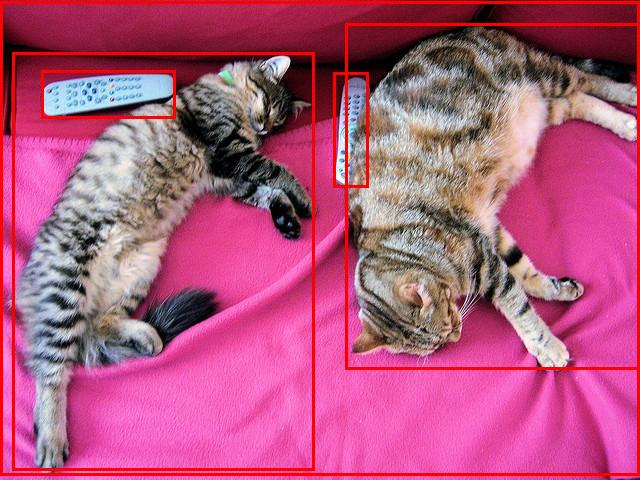
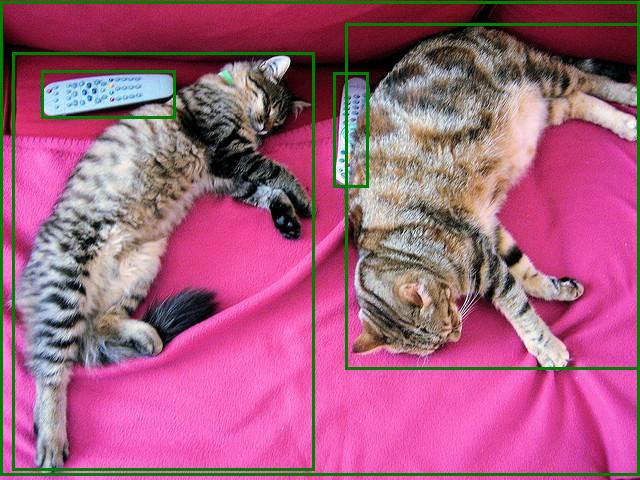
object detection and save results in file

Changed region(s): [[0.0, 0.0, 1.0, 1.0]]

diff --git a/simple_classify.py b/simple_classify.py
@@ -40,7 +40,7 @@ for score, label, box in zip(results["scores"], results["labels"], results["boxe
     )
     top_left_corner = (box[0], box[1])  # x, y of the top left corner
     bottom_right_corner = (box[2], box[3])  # x, y of the bottom right corner
-    draw.rectangle([top_left_corner, bottom_right_corner], outline="red", width=3)
+    draw.rectangle([top_left_corner, bottom_right_corner], outline="green", width=3)
 
 image.save('out.jpg')
 #image.show()
